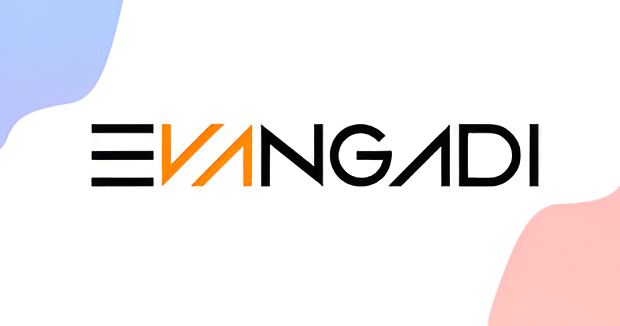
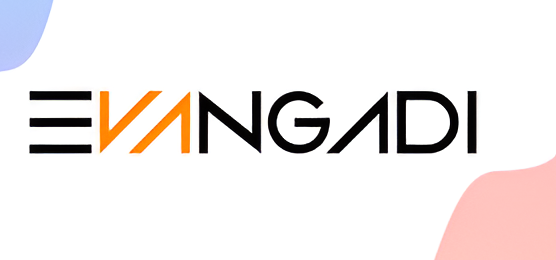
header image removed

diff --git a/index.html b/index.html
@@ -84,12 +84,12 @@
           <div class="row">
             <div class="col-md-8 col-md-offset-1 inner">
               <h1 class="animated fadeInDown">
-                E<span style="color: #e04343">yer</span>usalem<br />
+                Eyerus<br />alem<br />
                 <span>Yi<span style="color: #ffe800">rg</span>a</span>
               </h1>
               <!-- Title -->
               <h3 class="animated fadeInUp delay-05s">
-                <span class="rotate">Web Develeoper,Fullstack Dev</span>
+                <span class="rotate">Web Develeoper, Fullstack Dev</span>
               </h3>
               <!-- Text Rotator -->
             </div>
@@ -244,18 +244,18 @@
       <!-- About 2 -->
       <div class="row">
         <div class="col-md-6 about-text">
-          <h6>Amazon Clone</h6>
+          <h6>Evangadi Forum</h6>
           <!-- Headline -->
           <p>
-            Built an Amazon-inspired e-commerce platform with comprehensive
-            product listings, a dynamic shopping cart, and secure checkout
-            processes. This clone project is designed to handle large-scale
-            product data and supports seamless navigation and transaction flow
-            for users.
+            Created an interactive forum for the Evangadi community, enabling
+            users to post topics, engage in discussions, and share knowledge.
+            This platform is optimized for both desktop and mobile users,
+            ensuring a consistent and user-friendly experience across all
+            devices.
           </p>
           <br /><!-- About Text 2 -->
           <a
-            href="https://master--reliable-lily-3b5e1a.netlify.app/"
+            href="https://evangadi-forum-client-ten.vercel.app/"
             class="weight-outline-btn"
             >Visit</a
           >
@@ -264,7 +264,7 @@
         <div class="col-md-6 nopadding features-intro-img">
           <div
             class="about-image"
-            style="background-image: url(img/about2.jpg)"
+            style="background-image: url(img/about3.png)"
           ></div>
           <!-- about image 2 -->
         </div>
@@ -274,23 +274,23 @@
         <div class="col-md-6 nopadding features-intro-img">
           <div
             class="about-image"
-            style="background-image: url(img/about3.png)"
+            style="background-image: url(img/about2.jpg)"
           ></div>
           <!-- about image 3 -->
         </div>
         <div class="col-md-6 about-text">
-          <h6>Evangadi Forum</h6>
+          <h6>Amazon Clone</h6>
           <!-- Headline-->
           <p>
-            Created an interactive forum for the Evangadi community, enabling
-            users to post topics, engage in discussions, and share knowledge.
-            This platform is optimized for both desktop and mobile users,
-            ensuring a consistent and user-friendly experience across all
-            devices.
+            Built an Amazon-inspired e-commerce platform with comprehensive
+            product listings, a dynamic shopping cart, and secure checkout
+            processes. This clone project is designed to handle large-scale
+            product data and supports seamless navigation and transaction flow
+            for users.
           </p>
           <br /><!-- About Text 3 -->
           <a
-            href="https://evangadi-forum-client-ten.vercel.app/"
+            href="https://master--reliable-lily-3b5e1a.netlify.app/ "
             class="weight-outline-btn"
             >Visit</a
           ><!-- read more button  -->

diff --git a/css/style.css b/css/style.css
@@ -503,7 +503,7 @@ table {
 }
 /* ==========================================================================Hero========================================================================== */
 .hero {
-  background: url("../img/header-bg.png") right bottom no-repeat;
+  /* background: url("../img/header-bg.png") right bottom no-repeat; */
   background-size: contain;
   padding: 110px 0 100px 0;
   height: auto;
@@ -1311,5 +1311,51 @@ ul.slides li {
 
   .subscribe {
     padding-bottom: 40px;
+  }
+}
+/* Responsive Heading Styles */
+h1 {
+  font-size: 6vw; /* Relative to the viewport width */
+  color: #353535;
+  margin: 0.5em 0;
+  white-space: nowrap; /* Prevent text wrapping */
+  text-align: center;
+}
+
+h1 span {
+  display: inline; /* Ensure spans are inline, not block */
+  font-size: inherit; /* Inherit the responsive font size */
+}
+
+/* Adjust font size for smaller screens */
+@media (max-width: 768px) {
+  h1 {
+    font-size: 8vw;
+  }
+}
+
+@media (max-width: 480px) {
+  h1 {
+    font-size: 10vw;
+  }
+}
+
+/* Subheading styles */
+h3 {
+  font-size: 4vw;
+  margin: 0.5em 0;
+  text-align: center;
+  color: #353535;
+}
+
+@media (max-width: 768px) {
+  h3 {
+    font-size: 6vw;
+  }
+}
+
+@media (max-width: 480px) {
+  h3 {
+    font-size: 8vw;
   }
 }
